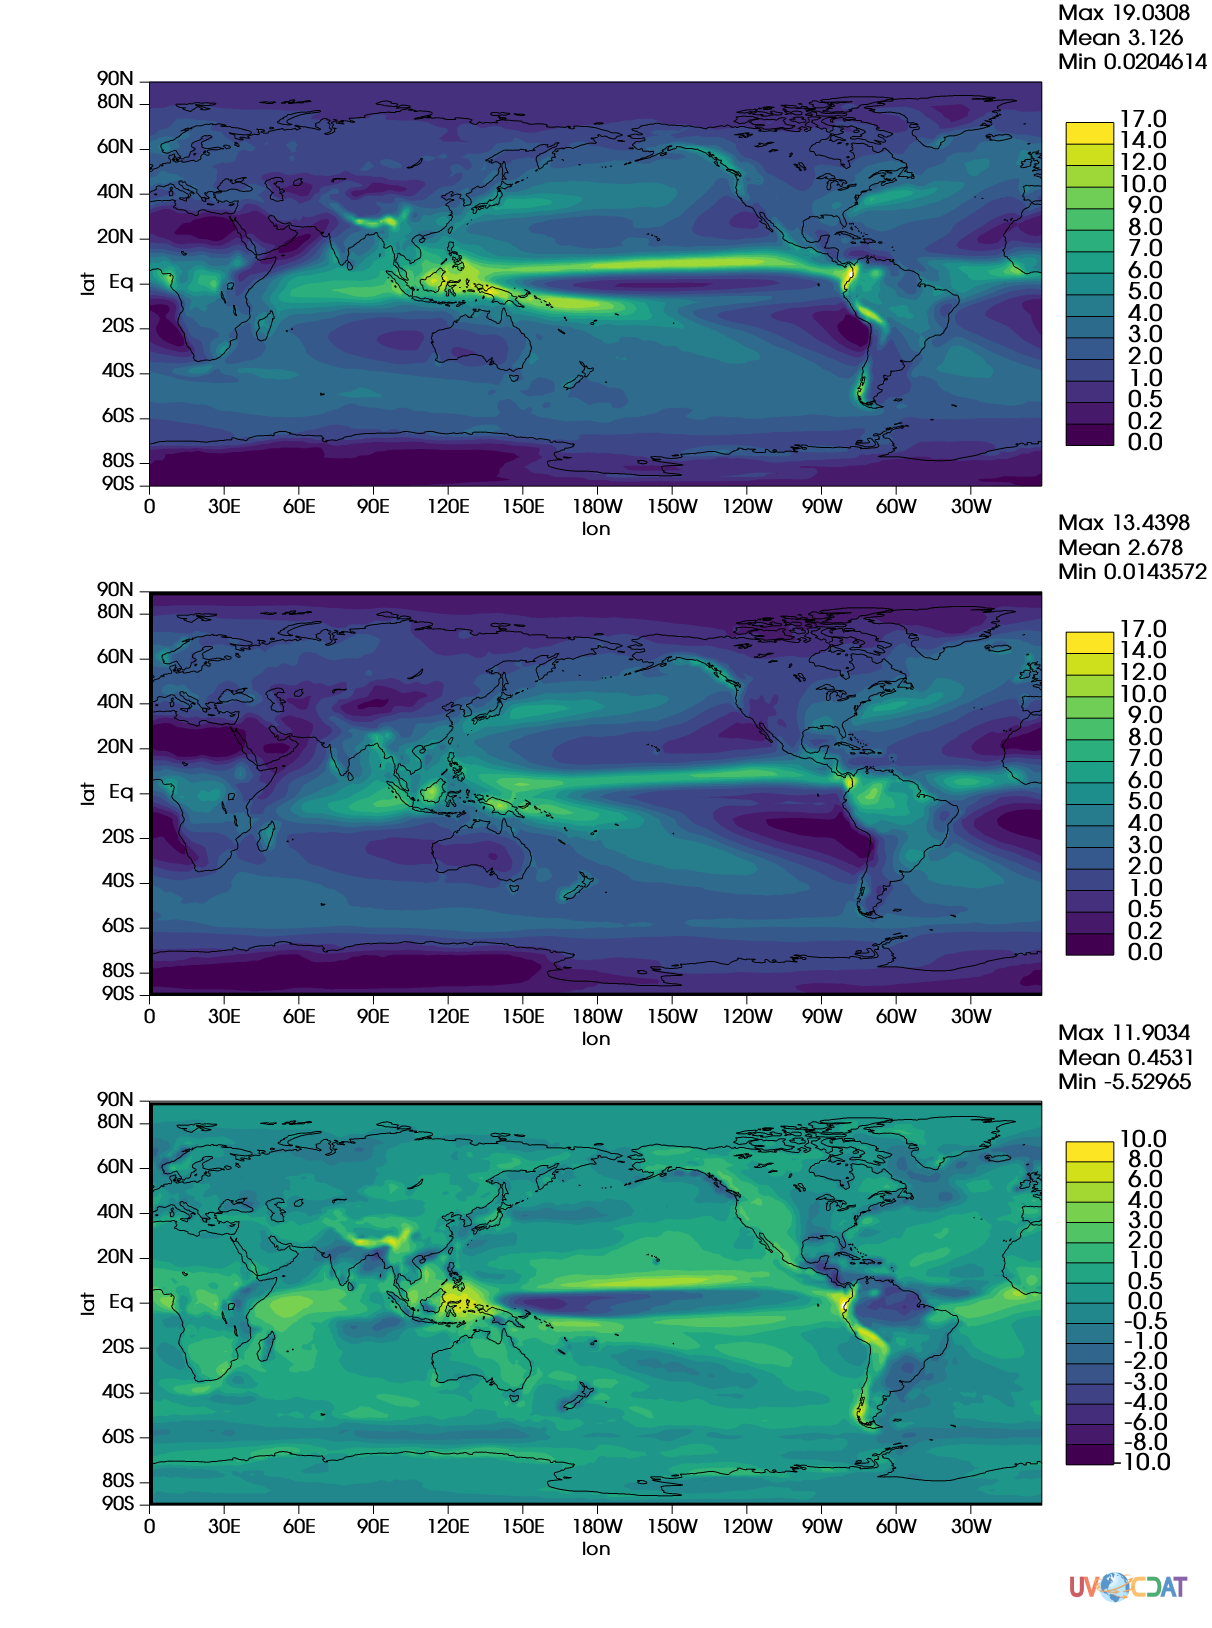
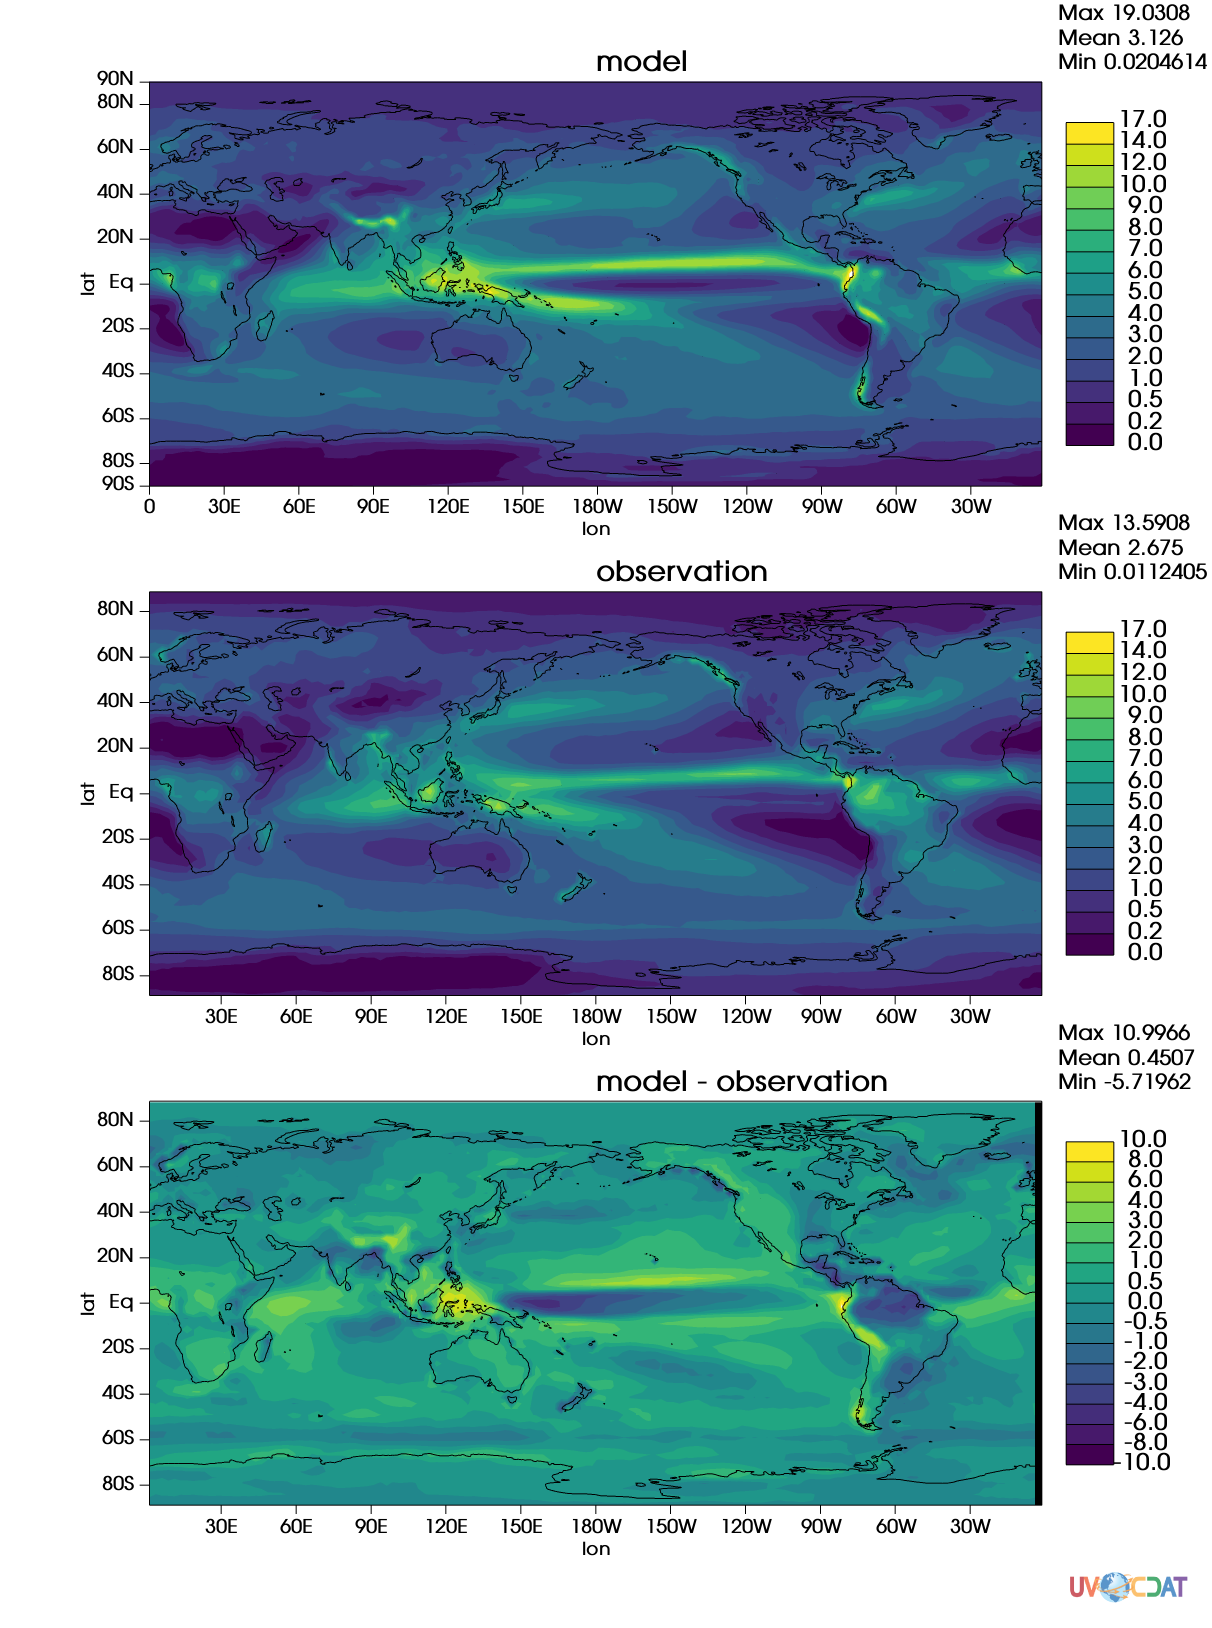
Add titles, Fix Regriding, CORR/RMSE

diff --git a/acme_diags/jill_test/set5_ANN_PRECT_GPCP_model_tmp.py b/acme_diags/jill_test/set5_ANN_PRECT_GPCP_model_tmp.py
@@ -52,16 +52,24 @@ max_mod=mod_pr.max()
 min_mod=mod_pr.min()
 print min_obs, max_obs
 
-model_grid=mod_pr.getGrid()
-mod_pr_reg=mod_pr
-obs_pr_reg=obs_pr.regrid(model_grid,regridTool='esmf',regridMethod='linear')
-max_obs=obs_pr_reg.max()
-min_obs=obs_pr_reg.min()
+max_obs=obs_pr.max()
+min_obs=obs_pr.min()
 print min_obs, max_obs
+
+#For plotting, original grid is plotted for model observation, differece plot is regridded to coaser grid. Need if statement to evaluate grid size
+#model_grid=mod_pr.getGrid()
+#mod_pr_reg=mod_pr
+#obs_pr_reg=obs_pr.regrid(model_grid,regridTool='esmf',regridMethod='linear')
+
+obs_grid=obs_pr.getGrid()
+obs_pr_reg=obs_pr
+mod_pr_reg=mod_pr.regrid(obs_grid,regridTool='esmf',regridMethod='linear')
+
 #CORR and RMSE need to be calculated after reduction to ensure same array shapes.
 print round(compute_rmse(obs_pr_reg, mod_pr_reg),2)
 print round(compute_corr(obs_pr_reg, mod_pr_reg),2)
 
+#Plotting
 x = vcs.init(bg=True, geometry=(1212,1628))
 x.portrait()
 
@@ -69,16 +77,36 @@ x.scriptrun('plot_set_5.json')
 template_0 = x.gettemplate('plotset5_0_x_0')
 template_1 = x.gettemplate('plotset5_0_x_1')
 template_2 = x.gettemplate('plotset5_0_x_2')
-#template_0.blank(["title","mean","min","max","dataname","crdate","crtime","units"]) ## Turn off additional information
+
+plot_title = vcs.createtext()
+plot_title.x=template_0.title.x 
+plot_title.y=template_0.title.y
+plot_title.string='model'
+x.plot(plot_title)
+
 isofill = x.createisofill()
 isofill.levels=[0,0.2, 0.5, 1, 2, 3, 4, 5, 6, 7, 8, 9, 10, 12, 14, 17]
 #x.setcolormap('rainbow')
 x.plot(mod_pr, template_0, isofill)
+
+plot_title = vcs.createtext()
+plot_title.x=template_1.title.x 
+plot_title.y=template_1.title.y
+plot_title.string='observation'
+x.plot(plot_title)
+
 isofill = x.createisofill()
 isofill.levels=[0,0.2, 0.5, 1, 2, 3, 4, 5, 6, 7, 8, 9, 10, 12, 14, 17]
-#x.setcolormap('rainbow')
+
 x.plot(obs_pr, template_1, isofill)
 #x.setcolormap('bl_to_darkred')
+
+plot_title = vcs.createtext()
+plot_title.x=template_2.title.x 
+plot_title.y=template_2.title.y
+plot_title.string='model - observation'
+x.plot(plot_title)
+
 isofill = x.createisofill()
 isofill.levels=[-10,-8, -6, -4, -3, -2, -1,-0.5, 0, 0.5, 1, 2, 3, 4, 6, 8,10]
 x.plot(mod_pr_reg-obs_pr_reg, template_2, isofill)
